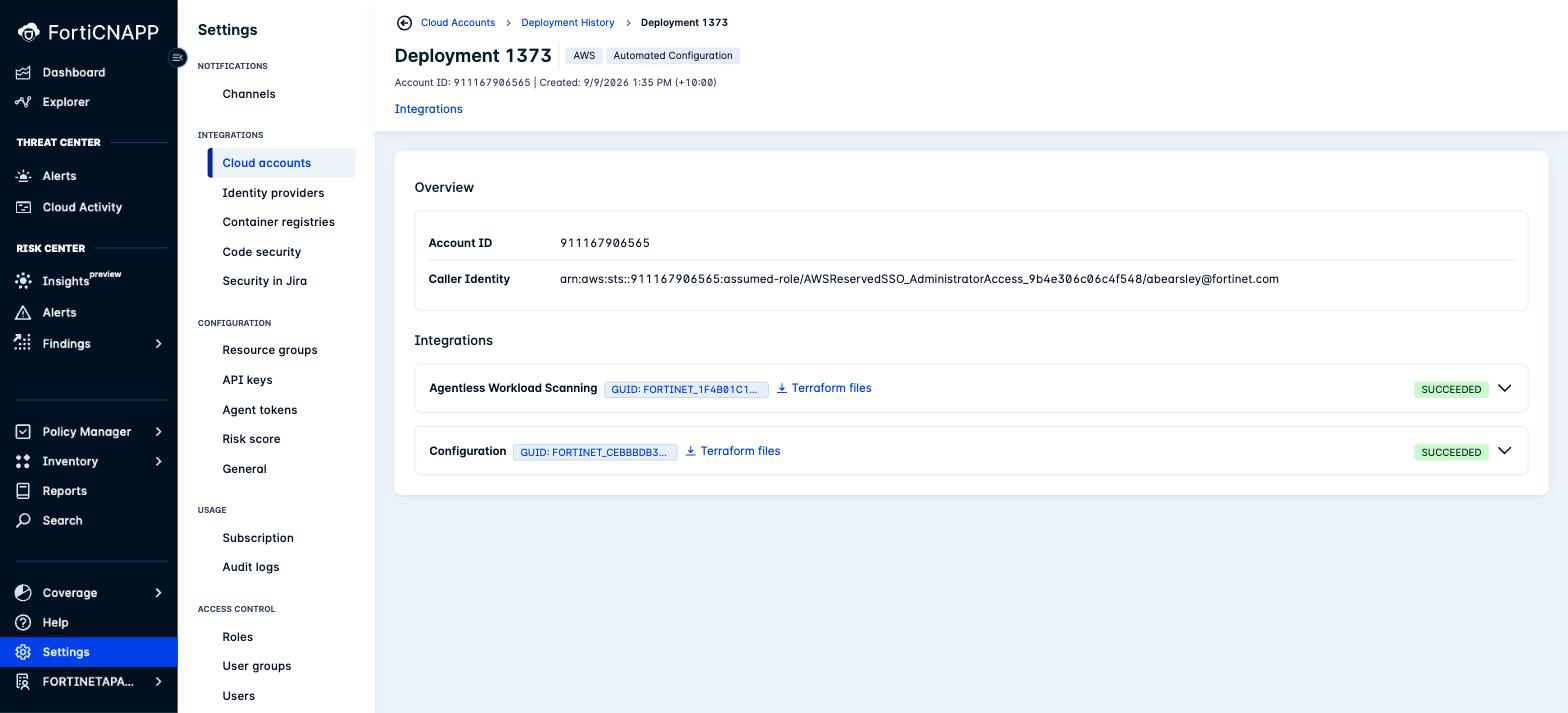
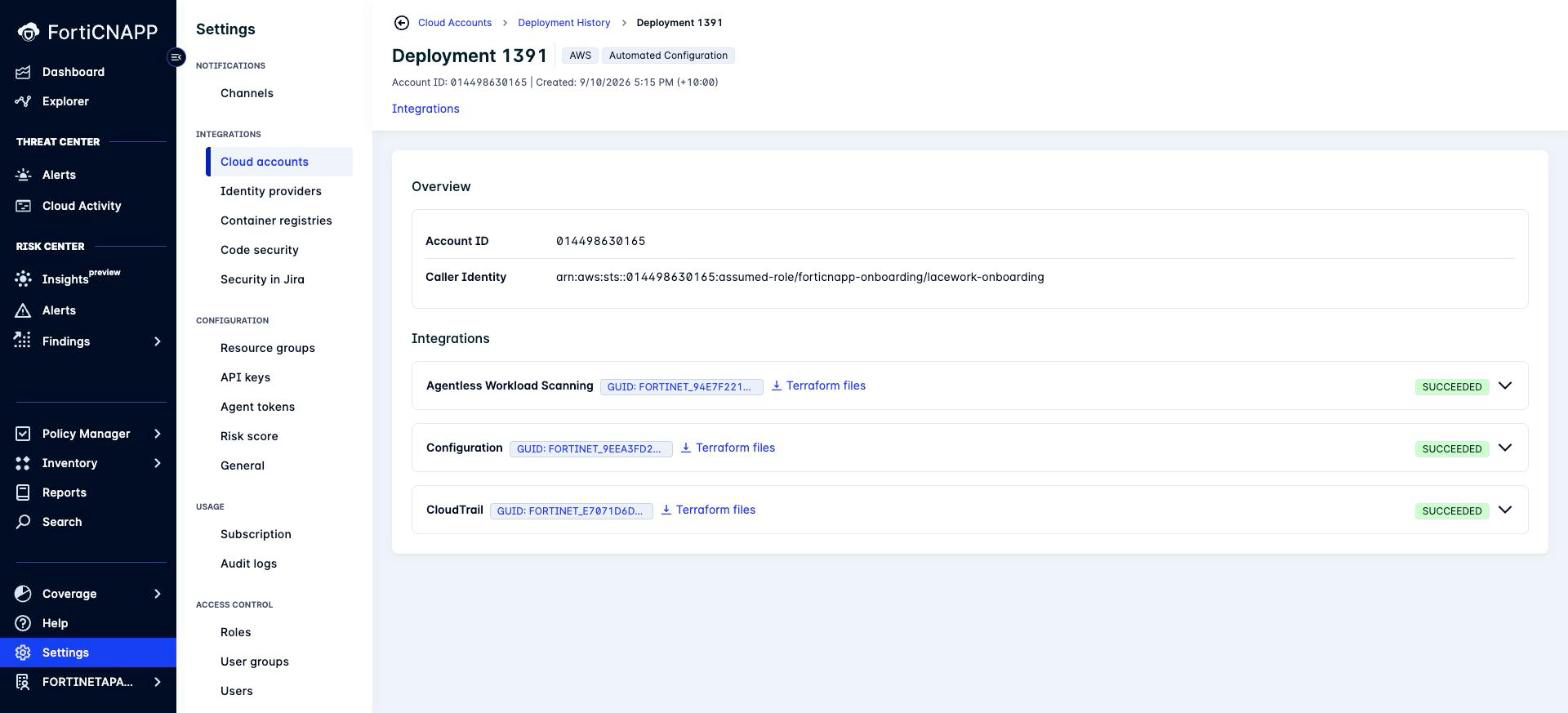
Lab 3: all-green screenshot and CloudTrail verification from a student account
Full run on student account 014498630165 with a self-created role.
Configuration, CloudTrail and Agentless all SUCCEEDED. FortiCNAPP created
its own trail, lacework-cloudtrail-7689faee, IsOrganizationTrail False,
writing to its own bucket. 19 tagged resources, 6 IAM roles.

diff --git a/lab-03/README.md b/lab-03/README.md
@@ -181,7 +181,7 @@ failed onboarding.
 You can return to this record at any time. Go to **Settings** > **Integrations** >
 **Cloud accounts** and select the **Deployment History** tab.
 
-![Deployment record showing both integrations SUCCEEDED with Terraform files links](images/forticnapp-deployment-succeeded.png)
+![Deployment record showing all three integrations SUCCEEDED with Terraform files links](images/forticnapp-deployment-succeeded.png)
 
 The record holds four things worth knowing about:
 
@@ -208,7 +208,20 @@ Remember these tags. Lab 6 uses them for cleanup.
 
 ### Step 9: Confirm the AWS Side
 
-Switch to the AWS Console and confirm the resources exist.
+Switch to the AWS Console and confirm the resources exist. You can also check from
+CloudShell:
+
+```bash
+aws cloudtrail describe-trails --region ap-southeast-1 \
+  --query "trailList[].[Name,IsOrganizationTrail,S3BucketName]" --output text
+```
+
+A successful run returns a trail FortiCNAPP created, with `IsOrganizationTrail` **False**
+and its own bucket, for example:
+
+```
+lacework-cloudtrail-7689faee   False   lacework-ct-bucket-7d009af2
+```
 
 1. Go to **CloudTrail** > **Trails**. Confirm a trail exists and is logging.
 2. Go to **IAM** > **Roles**. Find the cross-account role FortiCNAPP created.
